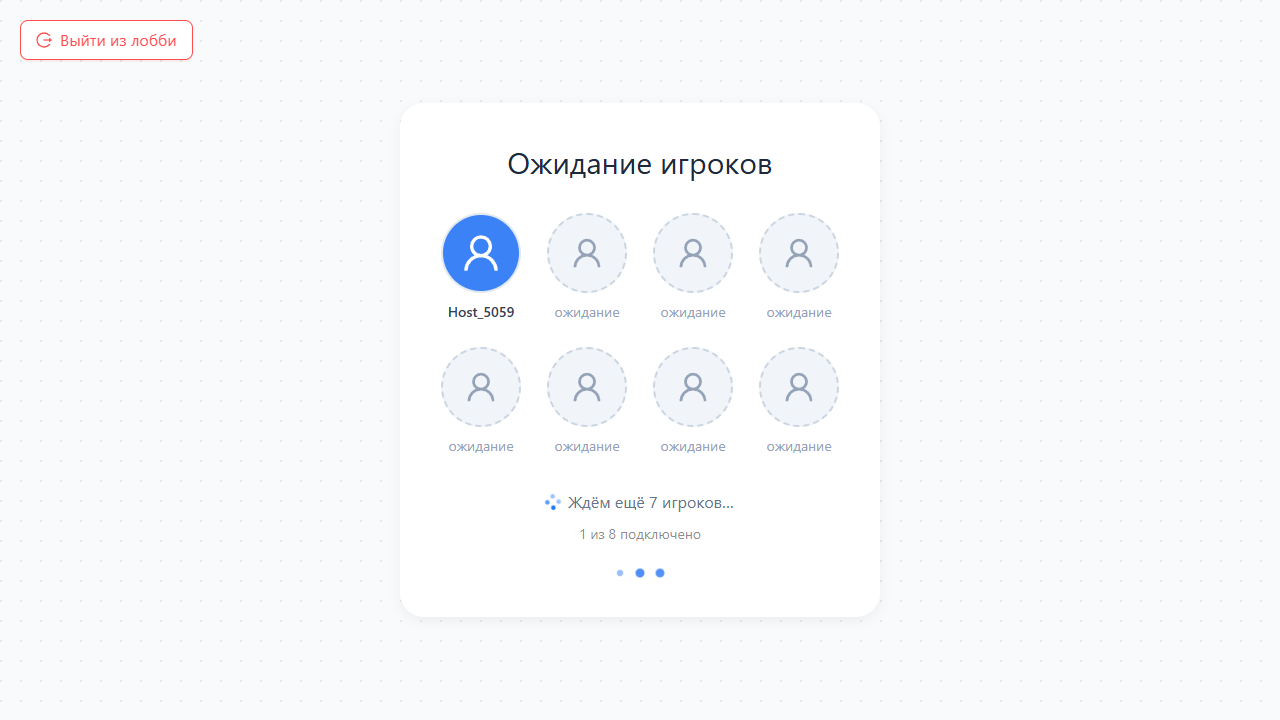
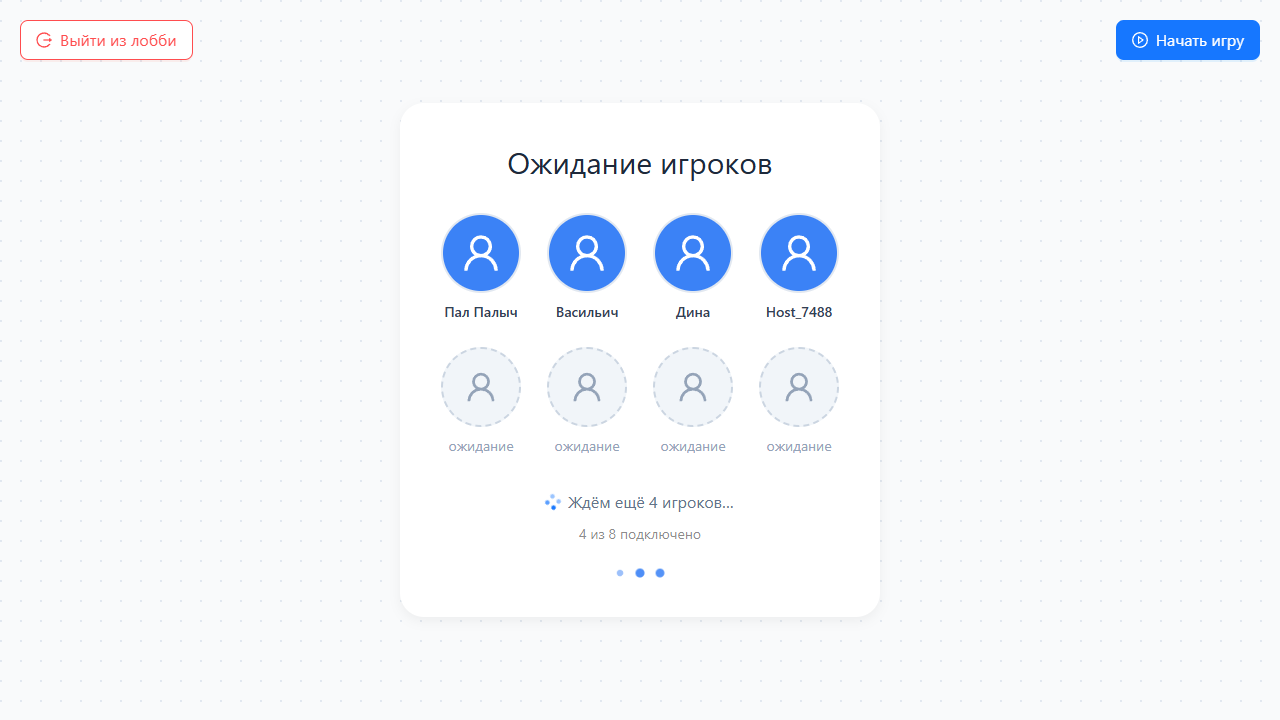
ф

diff --git a/frontend/test-ai-players.js b/frontend/test-ai-players.js
@@ -1,0 +1,141 @@
+const { chromium } = require('playwright');
+
+(async () => {
+  const browser = await chromium.launch({
+    channel: 'msedge',
+    headless: true
+  });
+  const page = await browser.newPage();
+  
+  // Collect console messages
+  const consoleMessages = [];
+  page.on('console', msg => {
+    consoleMessages.push({ type: msg.type(), text: msg.text() });
+  });
+  
+  // Navigate to roomEdit page
+  console.log('=== TEST: AI Players in Lobby ===\n');
+  console.log('Navigating to http://localhost/roomEdit...');
+  await page.goto('http://localhost/roomEdit');
+  
+  // Wait for page to load
+  await page.waitForLoadState('networkidle');
+  console.log('Page title:', await page.title());
+  
+  // Click "Старт игры" button
+  console.log('\n=== Creating room ===');
+  const startButton = await page.locator('button:has-text("Старт игры")');
+  
+  if (await startButton.isVisible() && !(await startButton.isDisabled())) {
+    console.log('Clicking "Старт игры" button...');
+    
+    // Navigate to room after clicking
+    await Promise.all([
+      page.waitForURL(/\/room\/.*\/lobby/, { timeout: 10000 }),
+      startButton.click()
+    ]);
+    
+    console.log('✓ Navigated to:', page.url());
+    
+    // Wait for lobby page to load
+    await page.waitForLoadState('networkidle');
+    console.log('✓ Lobby page loaded');
+    
+    // Wait for WebSocket and data to load
+    console.log('\n=== Waiting for players to load ===');
+    await page.waitForTimeout(3000);
+    
+    // Check for player elements in the lobby
+    console.log('\n=== Checking for players in lobby ===');
+    
+    // Look for player cards/elements
+    // Common selectors for player lists in Mafia games
+    const playerSelectors = [
+      '.player-card',
+      '.player-item',
+      '.ant-card',
+      '.player-avatar',
+      '[class*="player"]',
+      '.lobby-player'
+    ];
+    
+    let playersFound = false;
+    for (const selector of playerSelectors) {
+      const elements = await page.locator(selector).all();
+      if (elements.length > 0) {
+        console.log(`Found ${elements.length} elements with selector: ${selector}`);
+        playersFound = true;
+      }
+    }
+    
+    // Check for any text that might indicate players
+    const pageContent = await page.content();
+    
+    // Look for common player-related text
+    const playerTexts = ['Игрок', 'Player', 'Участник', 'Мирный', 'Мафия', 'Доктор', 'Комиссар'];
+    console.log('\n=== Looking for player-related text ===');
+    for (const text of playerTexts) {
+      const element = await page.locator(`text=${text}`).first();
+      if (await element.isVisible().catch(() => false)) {
+        console.log(`✓ Found text: "${text}"`);
+      }
+    }
+    
+    // Check for AI indicator
+    const aiIndicator = await page.locator('text=AI').first();
+    if (await aiIndicator.isVisible().catch(() => false)) {
+      console.log('✓ Found AI indicator');
+    }
+    
+    // Check for player count
+    const playerCountPatterns = [
+      /\d+\s*\/\s*\d+/,  // e.g., "3/8"
+      /\d+\s*игрок/,
+      /players.*\d+/
+    ];
+    
+    console.log('\n=== Checking player count ===');
+    const bodyText = await page.locator('body').textContent();
+    for (const pattern of playerCountPatterns) {
+      const match = bodyText.match(pattern);
+      if (match) {
+        console.log(`✓ Found player count: ${match[0]}`);
+      }
+    }
+    
+    // Check console for player data
+    console.log('\n=== Console messages (player-related) ===');
+    const playerMessages = consoleMessages.filter(m => 
+      m.text.toLowerCase().includes('player') ||
+      m.text.toLowerCase().includes('игрок') ||
+      m.text.toLowerCase().includes('room') ||
+      m.text.includes('currentPlayers') ||
+      m.text.includes('aiPlayers')
+    );
+    
+    if (playerMessages.length > 0) {
+      playerMessages.slice(-15).forEach(m => {
+        console.log(`[${m.type}] ${m.text.substring(0, 200)}`);
+      });
+    } else {
+      console.log('No player-related console messages found');
+    }
+    
+    // Check if we're on the lobby page
+    const currentUrl = page.url();
+    if (currentUrl.includes('/lobby')) {
+      console.log('\n✓ Successfully created room and joined lobby!');
+      console.log(`  Room URL: ${currentUrl}`);
+    }
+  } else {
+    console.log('✗ Start button is disabled or not visible');
+  }
+  
+  // Take screenshot
+  console.log('\n=== Taking screenshot ===');
+  await page.screenshot({ path: 'test-ai-players-screenshot.png', fullPage: true });
+  console.log('Screenshot saved to test-ai-players-screenshot.png');
+  
+  console.log('\n=== Test completed ===');
+  await browser.close();
+})();

diff --git a/backend/app/services/room_service.py b/backend/app/services/room_service.py
@@ -5,7 +5,8 @@
 Валидирует бизнес-правила (максимальное количество игроков, статусы комнаты).
 """
 import logging
-from typing import Optional, Dict, Any
+import random
+from typing import Optional, Dict, Any, List
 from sqlalchemy.ext.asyncio import AsyncSession
 
 from app import schemas
@@ -16,6 +17,33 @@ from app.models.room import Room as RoomModel, RoomStatus
 from app.models.player import Player as PlayerModel
 from app.utils.short_id import generate_unique_short_id
 from datetime import datetime, timezone
+
+# Загружаем имена для AI игроков
+AI_NAMES = [
+    "Саня Белый", "Витя Антибиотик", "Игорь Николаевич (Шеф)", "Лёха Гвоздь",
+    "Вова Утюг", "Толян Седой", "Михалыч", "Жека Мотор", "Макс Лютый",
+    "Паша Циркач", "Костя Кот", "Антон Студент", "Борис Бритва", "Вадим Хирург",
+    "Гена Крокодил", "Гоша Артист", "Егор Мясник", "Кирилл Мажор", "Лёня Хитрый",
+    "Марк Француз", "Матвей Тихий", "Никита Бес", "Коля Боксер", "Олег Снайпер",
+    "Петя Глухой", "Серега Кирпич", "Степан Барон", "Тимур Зверь", "Федя Кувалда",
+    "Юра Шаман", "Ярик Псих", "Марат", "Артурчик", "Алик", "Давид Маркович",
+    "Славик Немой", "Димон", "Саныч", "Петрович", "Иваныч", "Пал Палыч",
+    "Степаныч", "Григорьич", "Васильич", "Андреич", "Сергеич", "Катя Вдова",
+    "Оксана Игла", "Аня Тихая", "Лера Комета", "Алиса Лиса", "Настя Рыжая",
+    "Вика Пантера", "Даша Тень", "Женя Сталь", "Лена Блонди", "Жанна Козырь",
+    "Сонька Золотая", "Ира Льдинка", "Ксюша Мелочь", "Люба Фартовая", "Марина Сирена",
+    "Маша Кукла", "Надя Акула", "Наташа Искра", "Нина Строгая", "Оля Царица",
+    "Полина Петарда", "Света Ночь", "Таня Гроза", "Юля Химера", "Валентин Эдуардович",
+    "Рома (Ромео)", "Илья Профессор", "Валера Космос", "Эдик", "Сеня", "Жора",
+    "Виталик", "Руслан Северный", "Антоха", "Глеб", "Дэн", "Захар", "Макар",
+    "Прохор", "Савва", "Тарас", "Ян", "Агата", "Диана", "Ева", "Инна", "Кира",
+    "Рита", "Роза", "Эля", "Яна", "Лёша Шрам", "Саня Граф", "Витя Сейф",
+    "Дима Бухгалтер", "Миша Север", "Артем Факир", "Влад Крест", "Гарик",
+    "Герман Львович", "Даня Шустрый", "Денис Бульдог", "Игнат", "Клим", "Леон",
+    "Митяй", "Платон", "Ростик", "Сева", "Тимофей Батя", "Филипп Фил", "Эмиль",
+    "Юлий", "Яков Яша", "Аделина", "Анжела", "Белла", "Влада", "Галина Галя",
+    "Дина", "Злата", "Карина", "Лада", "Милана", "Ника", "Регина", "Снежана", "Эльвира"
+]
 
 logger = logging.getLogger(__name__)
 
@@ -44,7 +72,7 @@ class RoomService:
         room_create: schemas.RoomCreate,
     ) -> RoomModel:
         """
-        Создать новую комнату с валидацией.
+        Создать новую комнату с валидацией и AI игроками.
         """
         logger.debug(f"RoomService.create_room called with: total_players={room_create.total_players}, ai_count={room_create.ai_count}, people_count={room_create.people_count}")
         
@@ -69,9 +97,59 @@ class RoomService:
         await self.update_last_activity(db, room.id)
         logger.debug("update_last_activity completed")
         
+        # Создаём AI игроков, если указано их количество
+        if room_create.ai_count > 0:
+            await self._create_ai_players(db, room.id, room_create.ai_count)
+        
         logger.info(f"Создана комната {room.id} с room_id={room.room_id}")
         # Уведомление через WebSocket не требуется, так как нет подключённых клиентов
         return room
+
+    async def _create_ai_players(
+        self,
+        db: AsyncSession,
+        room_id: int,
+        ai_count: int,
+    ) -> List[PlayerModel]:
+        """
+        Создать AI игроков для комнаты.
+        """
+        logger.debug(f"Creating {ai_count} AI players for room {room_id}")
+        
+        # Выбираем случайные имена для AI игроков
+        available_names = AI_NAMES.copy()
+        random.shuffle(available_names)
+        selected_names = available_names[:ai_count]
+        
+        created_players = []
+        for i, name in enumerate(selected_names):
+            player = await self.player_crud.create(
+                db,
+                obj_in=schemas.PlayerCreate(
+                    room_id=room_id,
+                    nickname=name,
+                    is_ai=True,
+                    is_alive=True,
+                    is_connected=True,
+                )
+            )
+            created_players.append(player)
+            logger.debug(f"Created AI player: {player.id} - {player.nickname}")
+        
+        # Обновляем счётчики в комнате
+        room = await self.room_crud.get(db, id=room_id)
+        if room:
+            await self.room_crud.update(
+                db,
+                db_obj=room,
+                obj_in=schemas.RoomUpdate(
+                    current_players=room.current_players + ai_count,
+                    ai_players=room.ai_players + ai_count,
+                ),
+            )
+        
+        logger.info(f"Created {len(created_players)} AI players for room {room_id}")
+        return created_players
 
     async def get_room(
         self,
